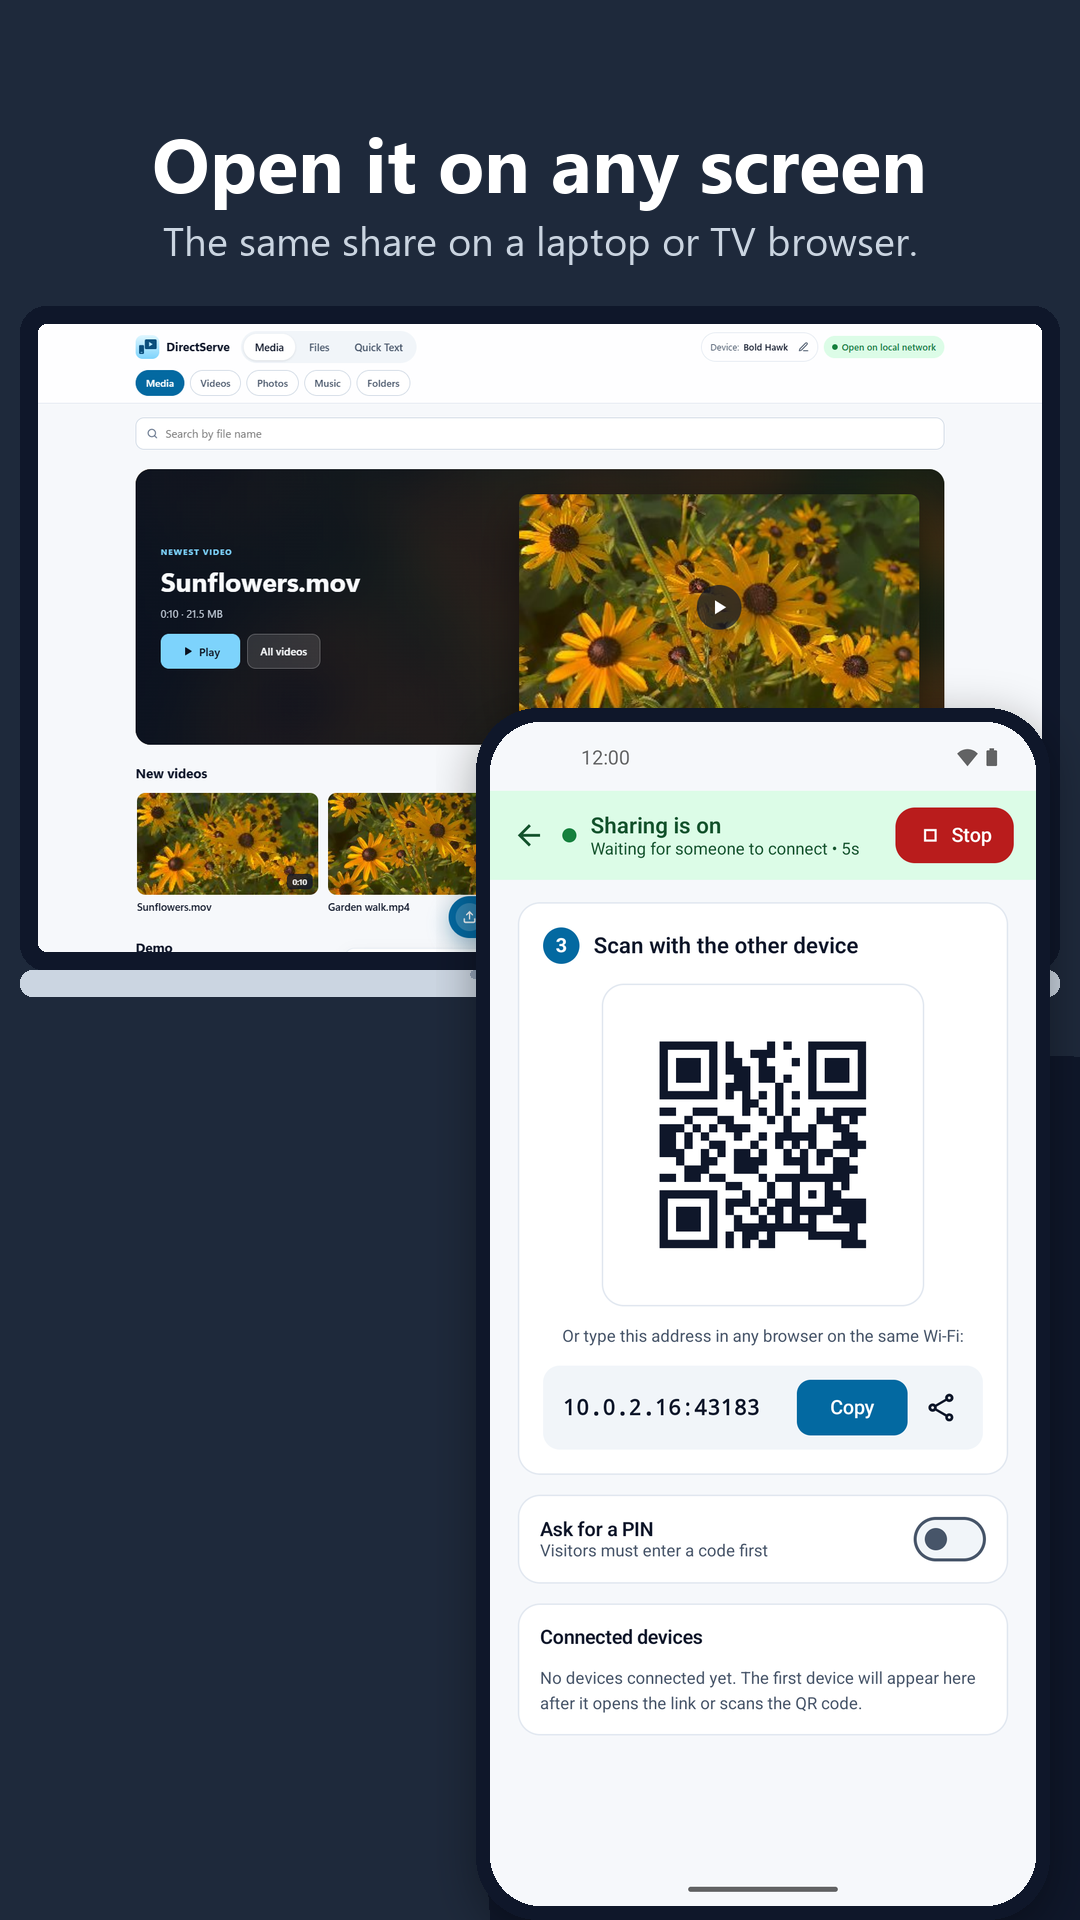
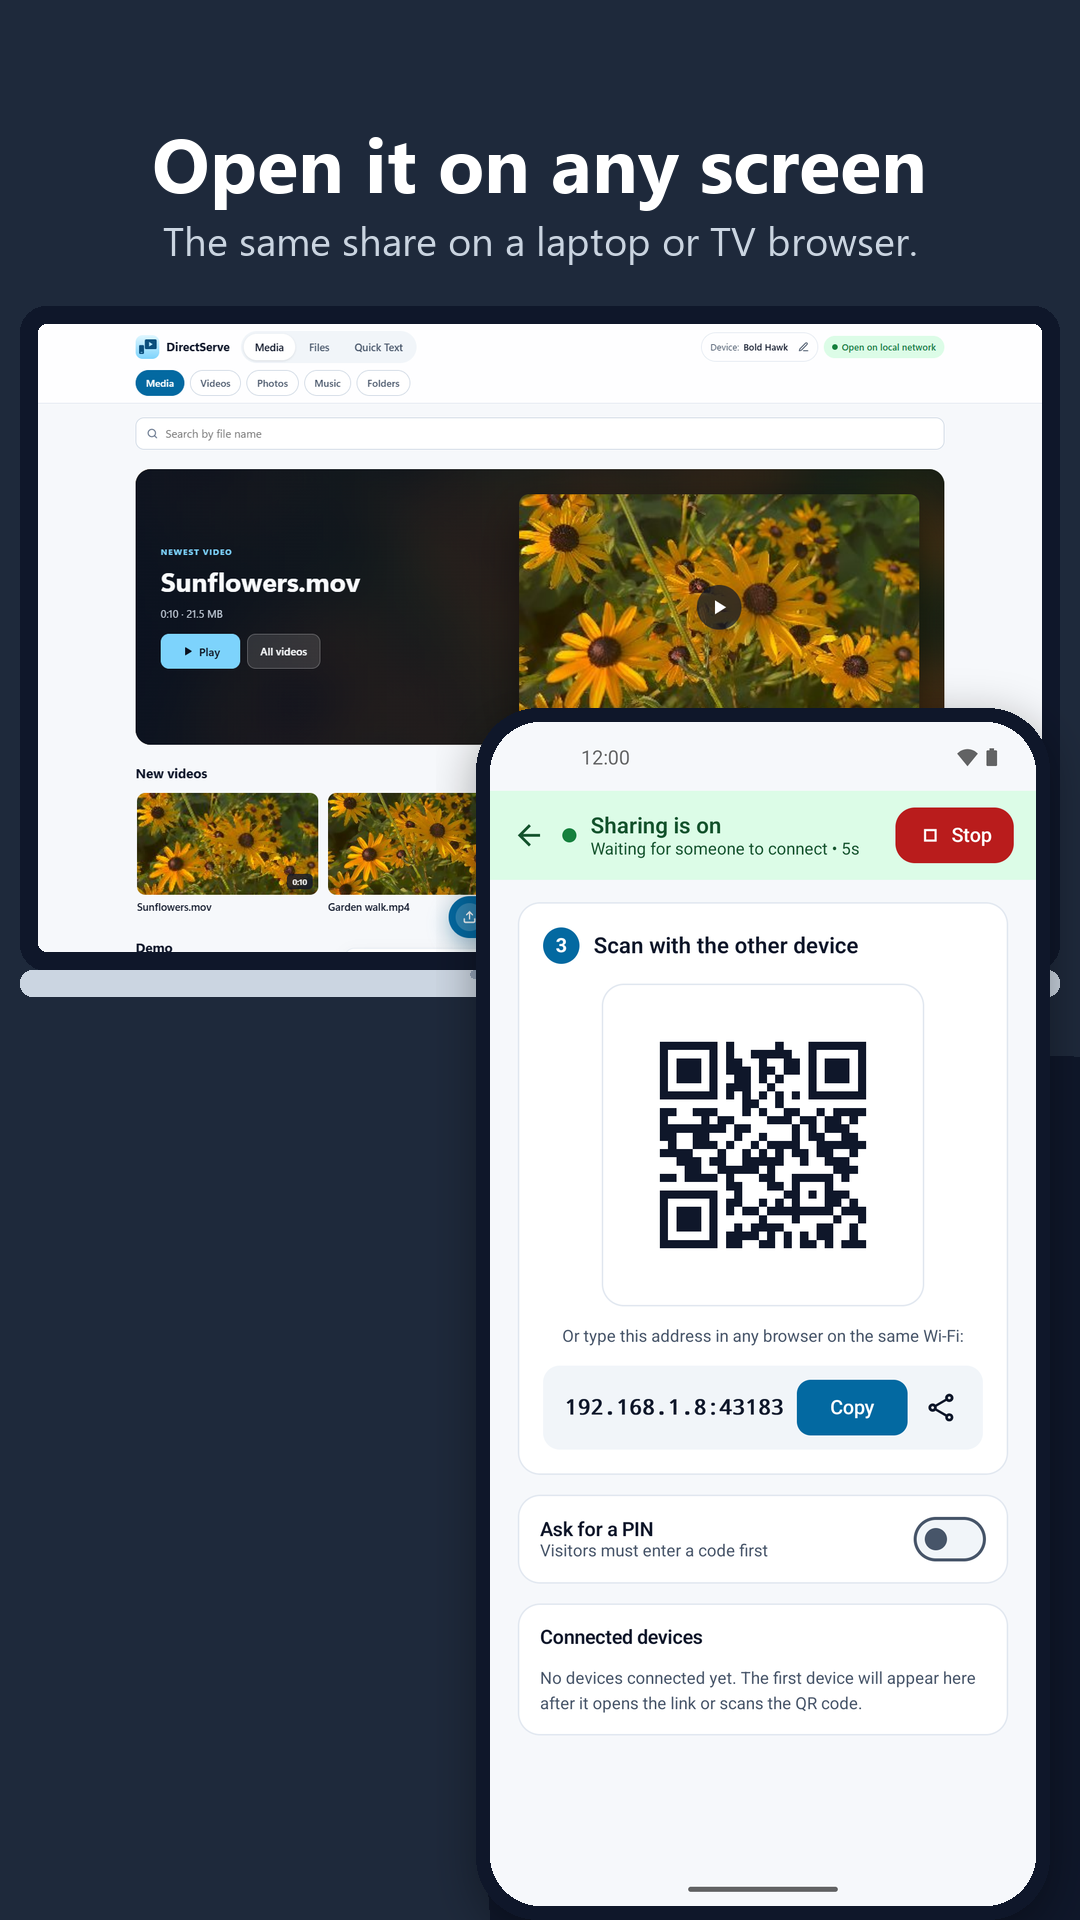
Use an example address in store screenshots and tidy the listing
The QR, session and browser screenshots now show 192.168.1.8 on the
app's default port instead of the emulator's 10.0.2.16. The listing is
reorganised into ready-to-paste Play Console fields with store settings,
and check_listing.py verifies each field against Play's limits.

Changed region(s): [[0.6111, 0.5312, 0.7944, 0.6562], [0.5194, 0.7188, 0.7333, 0.75]]

diff --git a/store/play-assets/check_listing.py b/store/play-assets/check_listing.py
@@ -1,0 +1,19 @@
+"""Checks LISTING.md's Play Console fields against their character limits.
+
+Usage: python -I check_listing.py   (from any directory)
+"""
+import re
+from pathlib import Path
+
+LIMITS = {"App name": 30, "Short description": 80, "Full description": 4000, "What's new": 500}
+
+text = (Path(__file__).parent / "LISTING.md").read_text(encoding="utf-8")
+failed = False
+for heading, body in re.findall(r"^## (.+?)\n+```\n(.*?)\n```", text, flags=re.S | re.M):
+    field = next((name for name in LIMITS if heading.startswith(name)), None)
+    if field is None:
+        continue
+    length, limit = len(body), LIMITS[field]
+    failed |= length > limit
+    print(f"{'OK  ' if length <= limit else 'OVER'} {field}: {length}/{limit}")
+raise SystemExit(1 if failed else 0)

diff --git a/store/play-assets/LISTING.md b/store/play-assets/LISTING.md
@@ -1,62 +1,70 @@
-# Play Store listing — DirectServe 1.0.27
+# Play Store listing: DirectServe 1.0.27
 
-Copy each block into Play Console → Grow → Store presence → Main store listing.
-Claims follow the "Do-Not-Claim" list in `store/PLAYSTORE_LISTING.md` (no cloud, no internet
-access, no "instant playback for every file", no "most secure").
+Ready to paste into Play Console → Grow users → Store presence → Main store listing.
+Each heading gives the Play Console field and its character limit; every block below fits.
 
-The title and short description carry the most search weight, so they use the terms people search
-for in this category: "cast", "TV", "mirror screen", "file transfer", "WiFi". "File Transfer" alone
-competes head-on with Xender, ShareMe and Send Anywhere; "Share to Browser" has almost no searches.
+---
 
-## App name (30 max)
+## App name (max 30)
 
+```
 DirectServe: Cast & File Share
+```
 
-## Short description (80 max)
+## Short description (max 80)
 
-Cast to TV, mirror your screen and transfer files over WiFi. No app needed.
+```
+Play phone videos on your TV or laptop, mirror your screen and share files.
+```
 
-## Full description (4000 max)
+## Full description (max 4000)
 
-Show your phone's videos, photos, music and files on any screen nearby — a TV, a laptop, a tablet or another phone — without cables, accounts or uploading anything.
+```
+Watch your phone's videos, photos and music on a TV, laptop or tablet, and move files between devices over your own Wi-Fi. No cables, no account, no uploading. The other screen only needs a web browser.
 
 HOW IT WORKS
-1. Choose what to share.
+1. Choose what to share: videos, photos, music or files.
 2. Tap Start sharing.
-3. Scan the QR code (or type the short address) on the other device.
-That's it. The other device only needs a web browser. No app to install there.
+3. Scan the QR code, or type the short address, on the other device.
+That's all. Nothing to install on the TV or computer.
 
-PLAY AND DOWNLOAD IN THE BROWSER
-• A home page like your own streaming app: a featured video, rows to swipe through, and Continue watching that picks up where you stopped.
-• Videos play straight from your phone. When a browser can't play a file as it is, DirectServe makes a compatible version when you press Play.
-• Photos open full size, with next and previous.
-• Music plays right in the page.
-• Download single files, everything, or a ZIP.
+YOUR OWN STREAMING PAGE
+The browser opens a home page that feels like a streaming app: a featured video with a big Play button, rows to swipe through for each folder, photos and music, and a Continue watching row that picks up where you stopped.
 
-SEND FILES BACK TO YOUR PHONE
-Anyone in the session can send photos, videos and files to your phone from their browser. You approve each transfer first.
+PLAYS STRAIGHT FROM YOUR PHONE
+• Videos play directly from your phone, with no copying first.
+• If a browser can't play a file as it is, DirectServe prepares a compatible version when you press Play.
+• In full screen, wide videos turn the phone sideways by themselves.
+• Photos open full size; music plays right in the page.
+
+SHARE FILES BOTH WAYS
+• Download one file, a selection, or everything as a ZIP.
+• Anyone in the session can send photos, videos and files to your phone from their browser. You approve each transfer.
+• Add files or whole folders at any time. Open pages update by themselves.
 
 MIRROR YOUR SCREEN
-Show your phone's screen live in a browser, with sound from apps that allow capture. Good for presentations, demos and showing photos to a room.
+Show your phone's screen live in a browser, with sound from apps that allow it. Great for presentations, demos and sharing photos with a room.
 
 SEND TEXT AND LINKS
-Paste a link or a note on the laptop and it pops up on your phone, or the other way round.
+Paste a link or a note on the laptop and it appears on your phone, or the other way round.
 
 TVs AND MEDIA PLAYERS
-Turn on DLNA in Advanced settings and smart TVs, VLC and Kodi on the same network can find your phone.
+Turn on DLNA in Advanced settings so smart TVs, VLC and Kodi on the same network can find your phone.
 
 PRIVATE BY DESIGN
-• Works only on your own Wi-Fi or your phone's hotspot. Nothing goes over the internet.
+• Works only on your Wi-Fi or your phone's hotspot. Your files never leave your local network.
 • No account, no cloud, no ads.
 • Add a PIN so only people you tell can open your share.
 • See who is connected, rename or block devices, and stop sharing with one tap.
 
-DirectServe is open source (Apache 2.0) and available in 26 languages.
+DirectServe is open source (Apache 2.0) and available in 23 languages.
 
-Note: speed depends on your Wi-Fi or hotspot. Some apps block screen and sound capture.
+Good to know: speed depends on your Wi-Fi or hotspot. Some apps block screen and sound capture.
+```
 
-## What's new in 1.0.27 (500 max)
+## What's new in 1.0.27 (max 500)
 
+```
 • A simpler app: choose what to share, tap Start, scan the code.
 • Browser home like a streaming app, with Continue watching.
 • Add files in one step; the browser updates by itself.
@@ -66,22 +74,46 @@ Note: speed depends on your Wi-Fi or hotspot. Some apps block screen and sound c
 • Long sharing sessions no longer stop after a few hours.
 • Crash fixes for a busy port and Live Screen refresh.
 • Lower memory use with large photos, and a smaller download.
+```
 
-## Screenshot captions (same order as phone_01 … phone_08)
+---
 
-1. Share in 2 taps — Pick what to share, tap Start. That's it.
-2. Scan and open in any browser — TV, laptop, tablet or phone. No app needed.
-3. Open it on any screen — The same share on a laptop or TV browser.
-4. Your own streaming page — Continue watching, swipe through rows, tap Play.
-5. Plays straight from your phone — Direct play first, prepared only when needed.
-6. Mirror your screen live — Show anything on a bigger screen.
-7. Always know what you're sharing — Search, filter, remove in one tap.
-8. Private and offline — Everything stays on your own Wi-Fi.
+## Graphics (upload in this order)
 
-## Graphics
+| File | Play Console field | Caption used in the image |
+|---|---|---|
+| `icon_512.png` | App icon (512 × 512) | |
+| `feature_graphic_1024x500.png` | Feature graphic | |
+| `phone_01_home.png` | Phone screenshot 1 | Share in 2 taps |
+| `phone_02_session.png` | Phone screenshot 2 | Scan and open in any browser |
+| `phone_03_laptop.png` | Phone screenshot 3 | Open it on any screen |
+| `phone_04_browser.png` | Phone screenshot 4 | Your own streaming page |
+| `phone_05_player.png` | Phone screenshot 5 | Plays straight from your phone |
+| `phone_06_mirror.png` | Phone screenshot 6 | Mirror your screen live |
+| `phone_07_library.png` | Phone screenshot 7 | Always know what you're sharing |
+| `phone_08_dark.png` | Phone screenshot 8 | Private and offline |
 
-| File | Field |
+The address shown in the screenshots (`192.168.1.8:43183`) is an example home-network address;
+43183 is the app's real default port.
+
+## Store settings
+
+| Field | Value |
 |---|---|
-| `icon_512.png` | App icon |
-| `feature_graphic_1024x500.png` | Feature graphic |
-| `phone_01_*.png` … `phone_08_*.png` | Phone screenshots |
+| App category | Video Players & Editors (alternative: Tools) |
+| Tags (pick up to 5) | Video players, Media players, File transfer, Screen mirroring, Media server |
+| Contains ads | No |
+| In-app purchases | No |
+
+---
+
+## Notes for editors
+
+- Claims follow the Do-Not-Claim list in `store/PLAYSTORE_LISTING.md`: no cloud, no internet access,
+  no "instant playback for every file", no "most secure", no unlimited speed.
+- The title and short description carry the most search weight, so they use what people search
+  for: "cast", "TV", "mirror screen", "file share". "File transfer" alone competes head-on with
+  Xender, ShareMe and Send Anywhere; "share to browser" has almost no searches.
+- "23 languages" counts distinct languages; regional variants (es-US, pt-BR, zh-TW) are not
+  counted separately.
+- Check the lengths after editing: `python -I store/play-assets/check_listing.py`.
